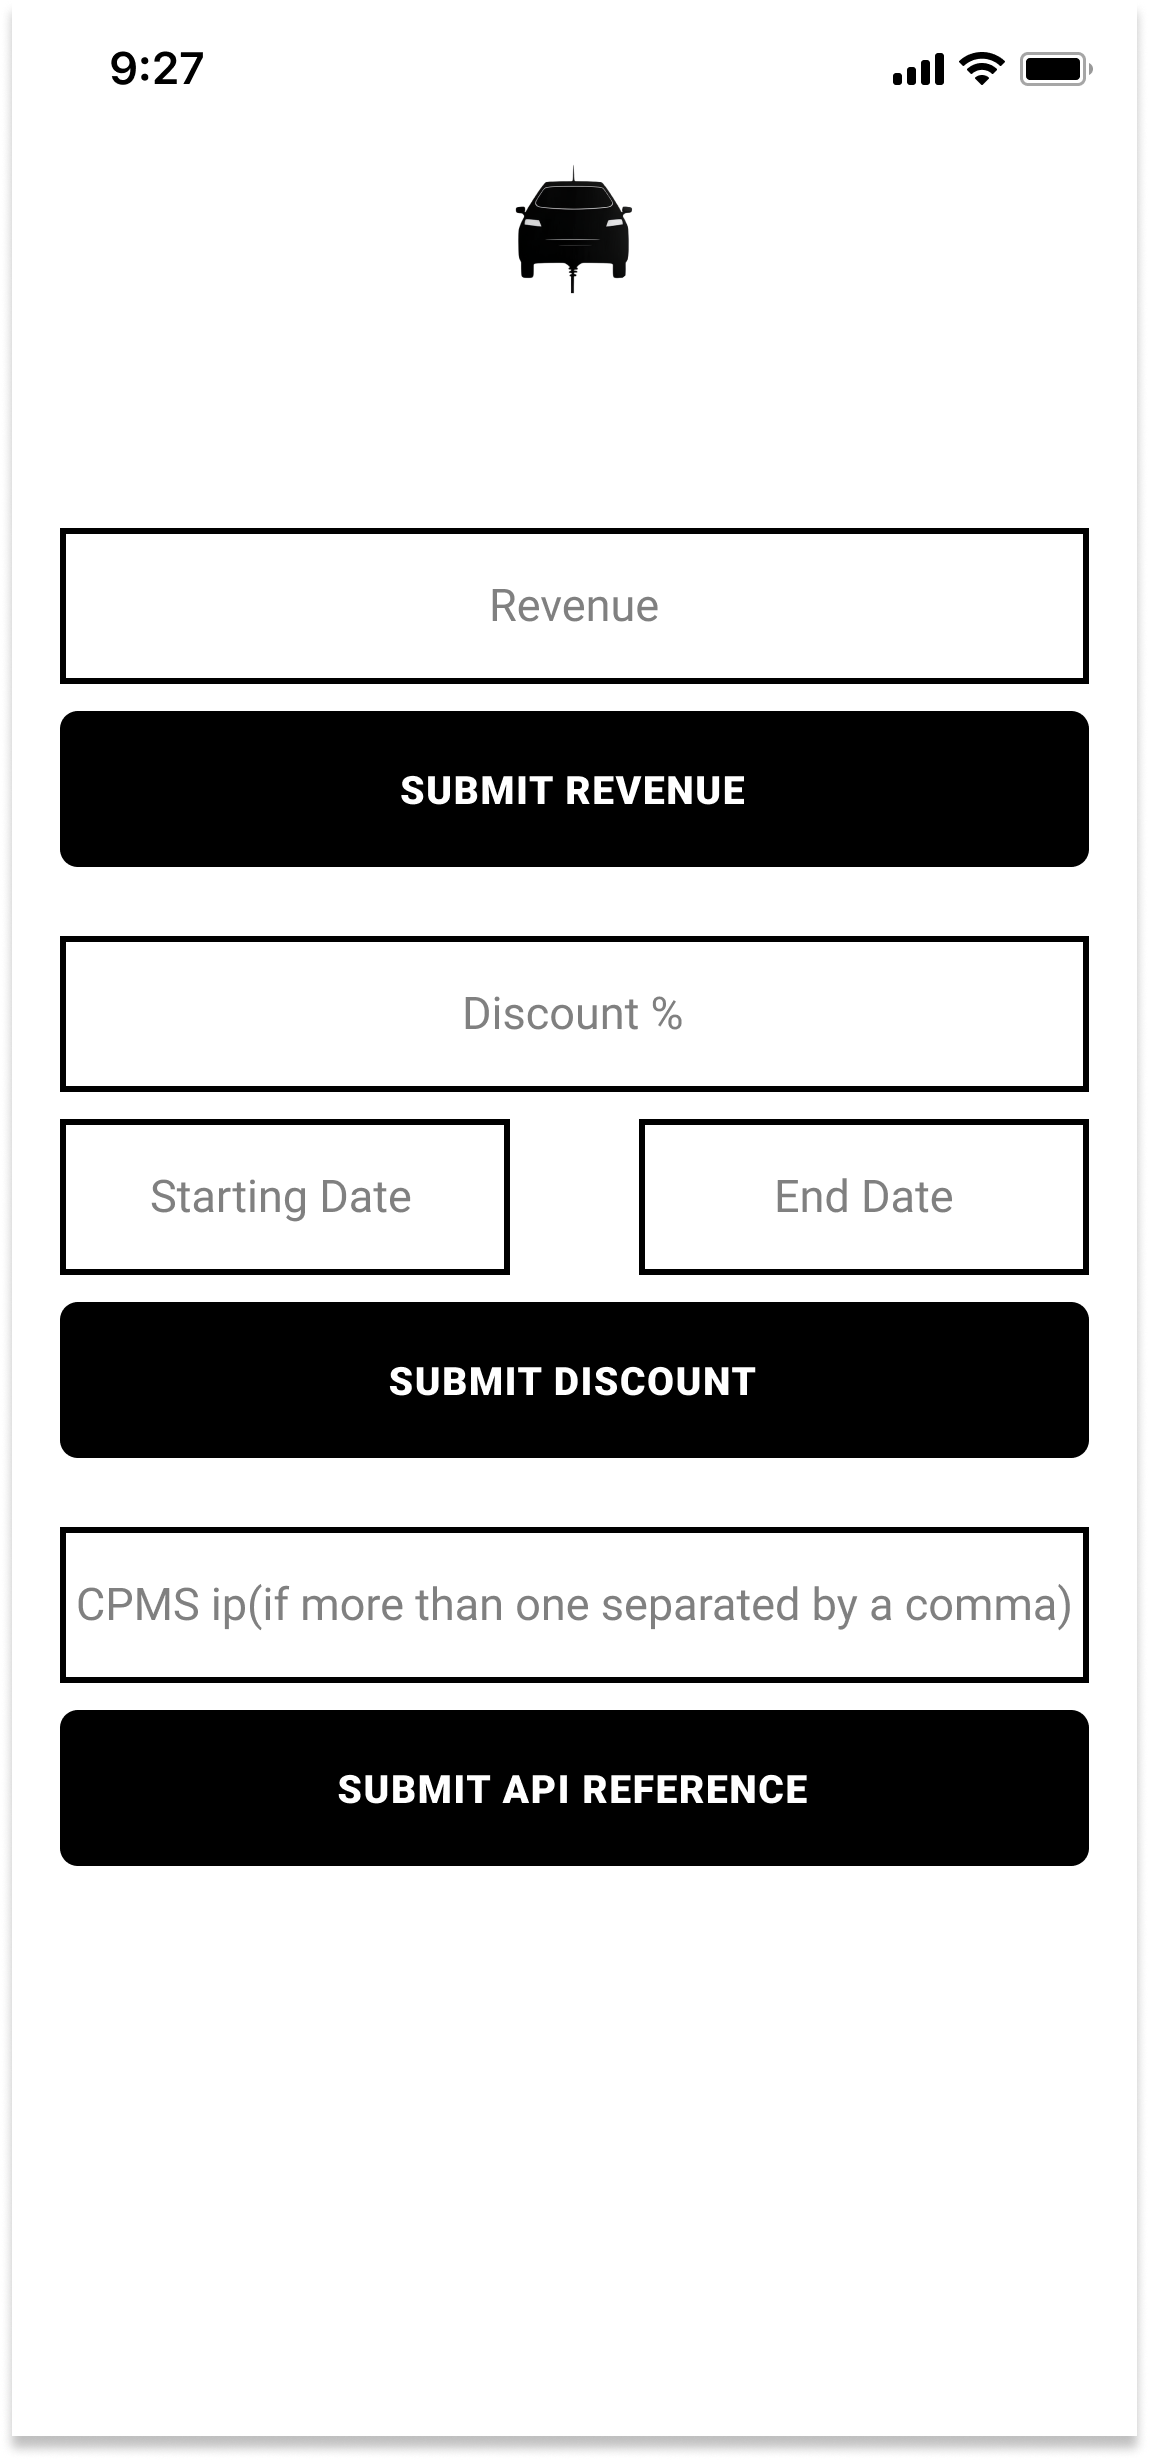
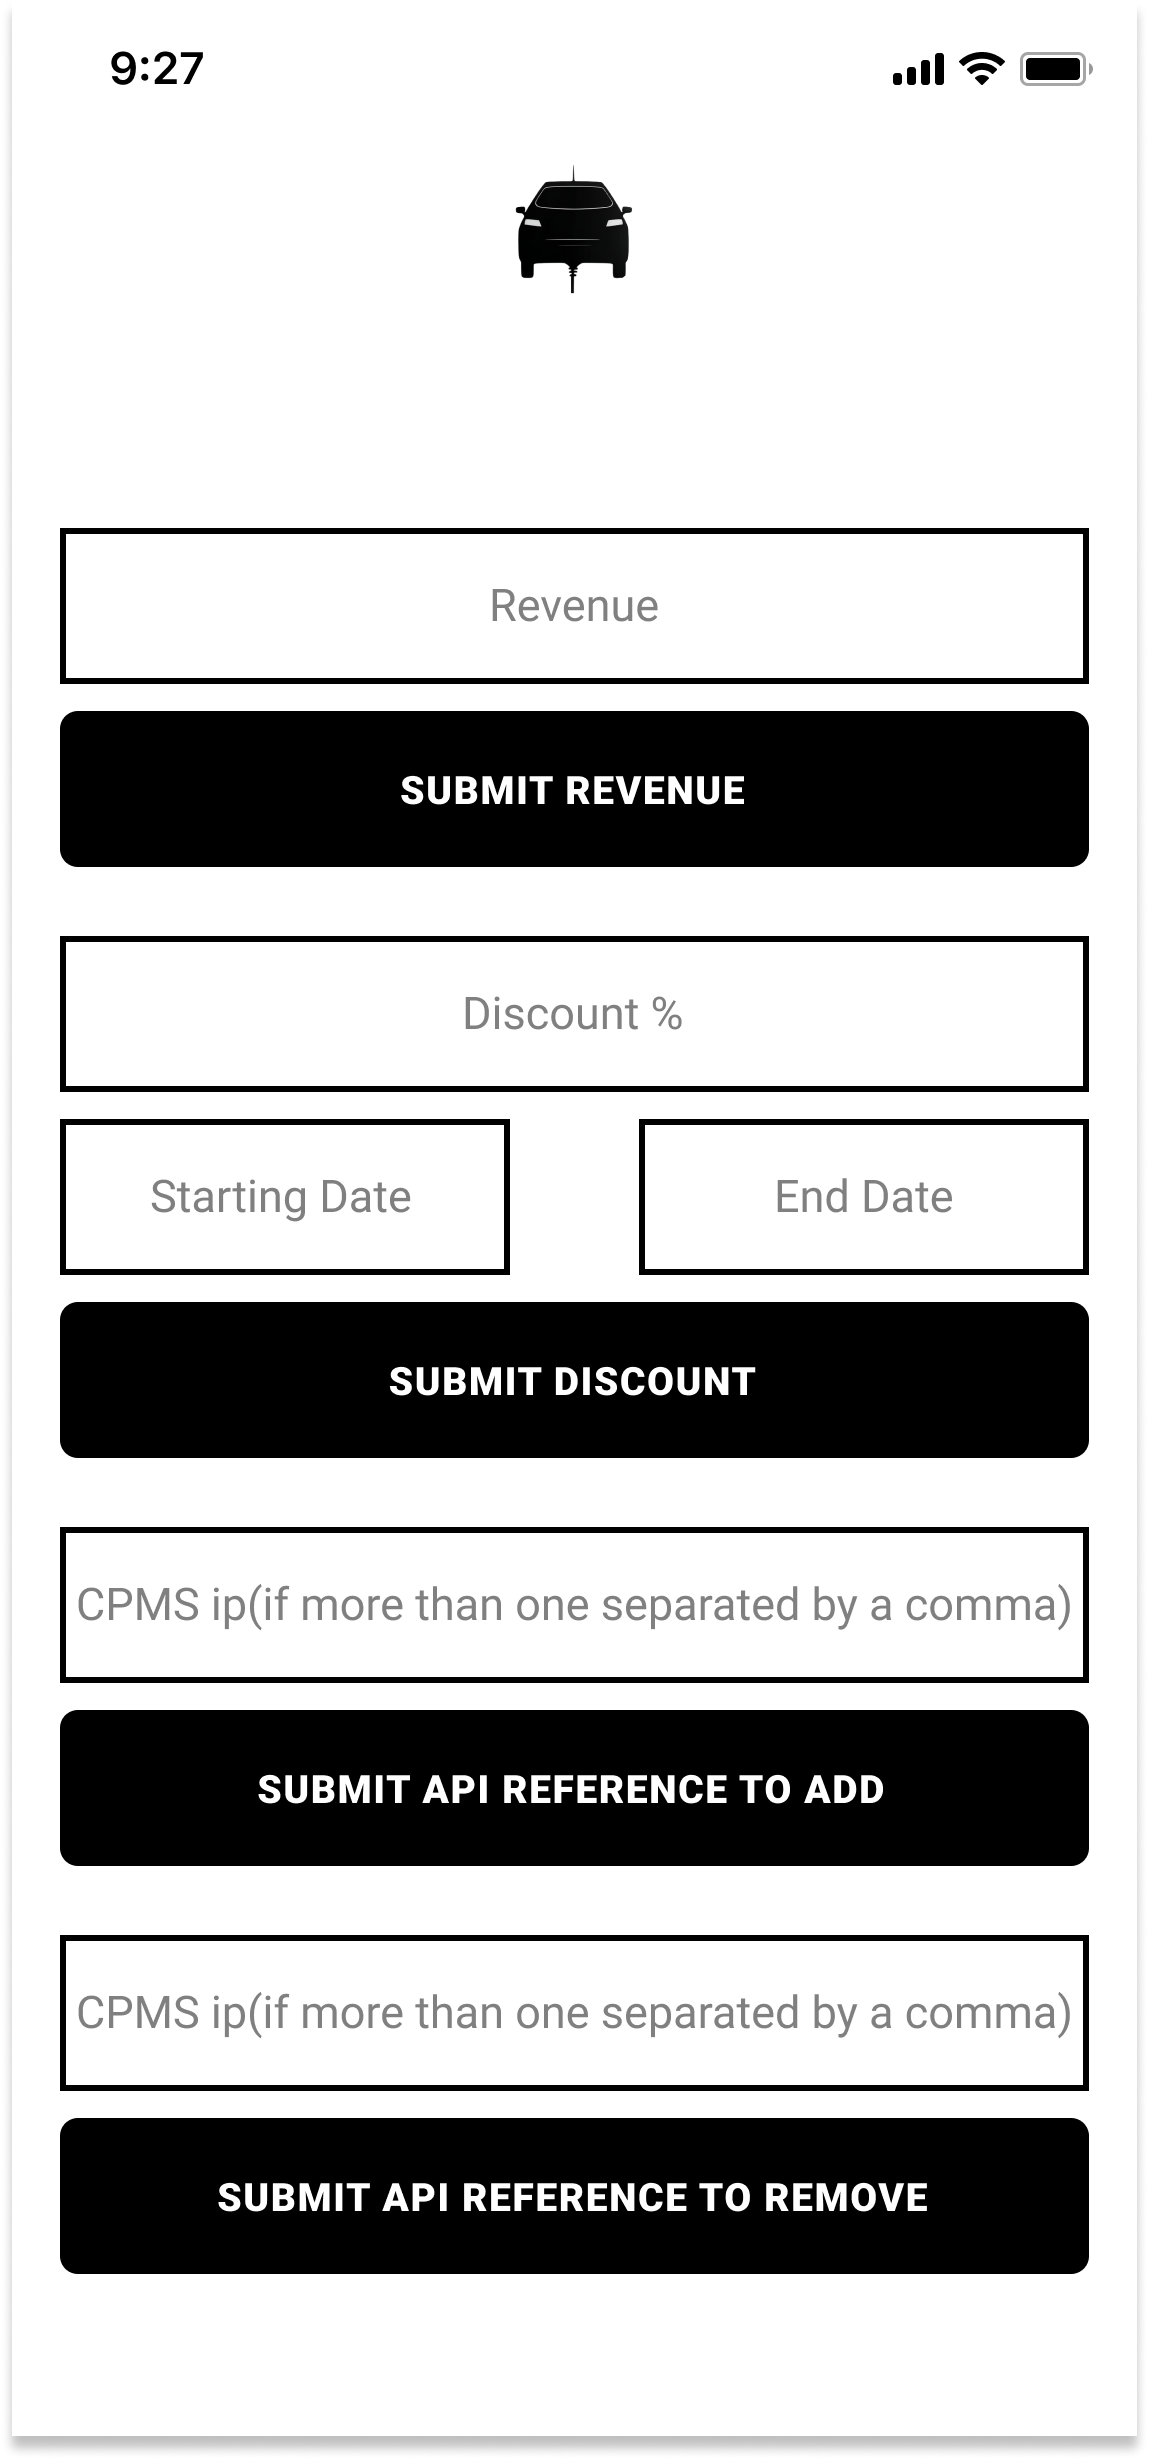
Updated user interfaces

Changed region(s): [[0.0305, 0.7724, 0.9748, 0.9268], [0.2132, 0.7106, 0.6092, 0.7415], [0.6397, 0.7106, 0.7615, 0.7415]]

diff --git a/DD/UserInterface.tex b/DD/UserInterface.tex
@@ -169,7 +169,8 @@ once this page is displayed the user has to log in by clicking the log in button
 In this page the \ac{CPO} can change the revenue, create discounts and add cpms reference.
 To change the Revenue the user has to insert the new revenue percentage in the field and press the submit revenue button, the revenue will be updated and the page refreshed.\\
 To create new discounts the user hast to insert the percentage of discounts, the time frame of the discount and press the submit discount button, the discount will be updated and the page refreshed.\\
-To add new Cpms the user has to insert the IP to the \ac{CPMS} ( if more than one separated by a comma) and press the submit \ac{API} reference button, the \ac{API} reference will be updated and the page refreshed.\\
+To add new Cpms the user has to insert the IP to the \ac{CPMS} ( if more than one separated by a comma) and press the submit \ac{API} reference to add button, the \ac{API} reference will be updated and the page refreshed.\\
+To remove a Cpms the user has to insert the IP to the \ac{CPMS} ( if more than one separated by a comma) and press the submit \ac{API} reference to remove button, the \ac{CPMS} will be removed and the page refreshed.\\
 
 \subsection{CPOMaintainer}
 This are the interfaces for the maintainers to access their \acp{CPMS}, it is assumed that the maintainer is already connected to the vpn trough a pc and a internet connection.
